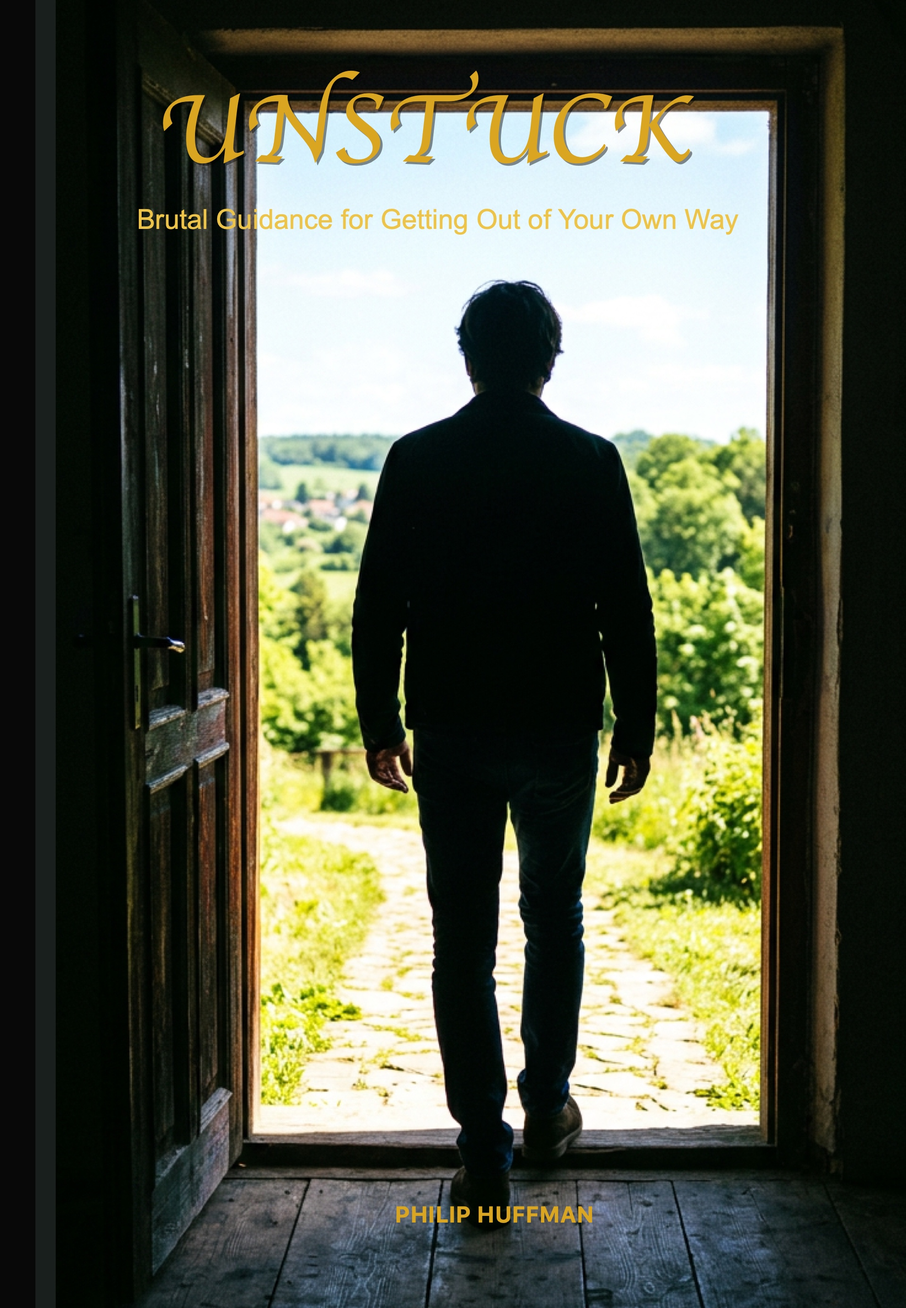
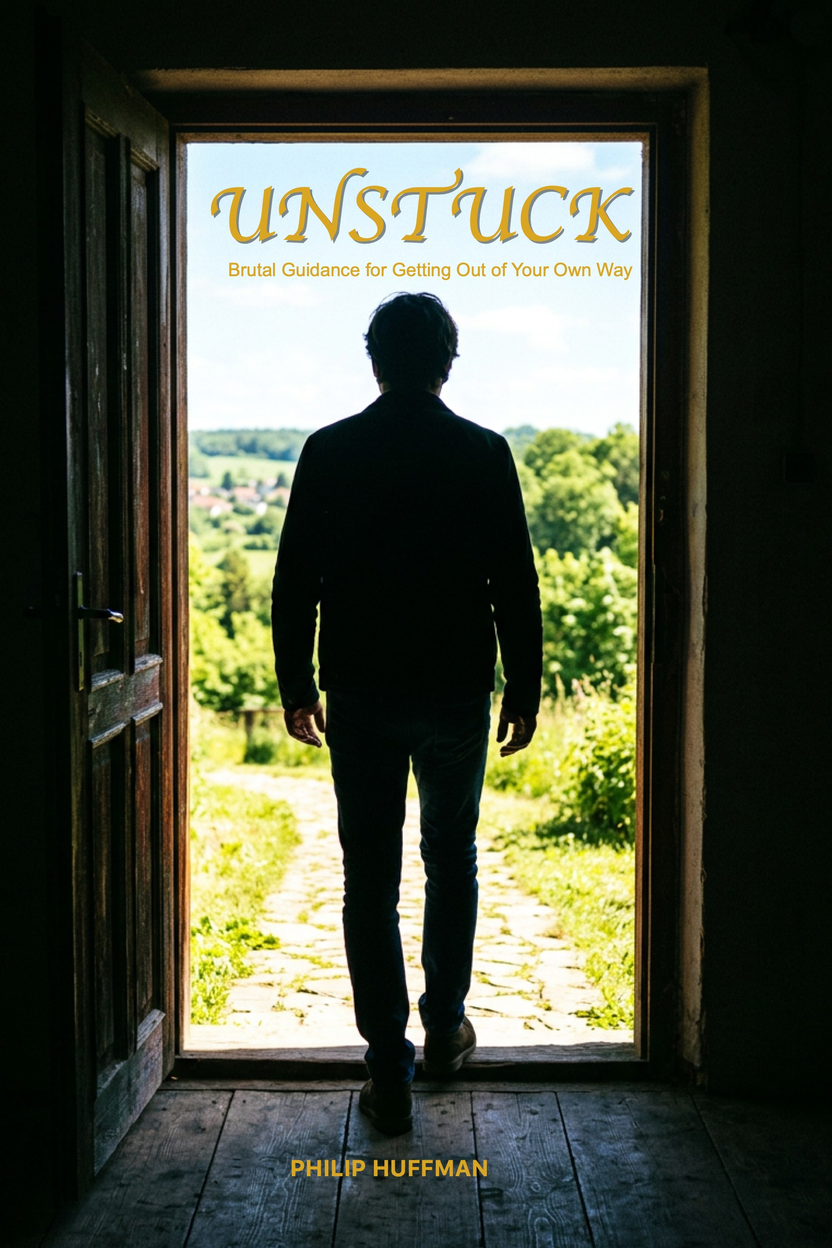
Use the redrawn Unstuck cover on the site

diff --git a/SESSION_STATE.md b/SESSION_STATE.md
@@ -12,6 +12,15 @@
 
 ---
 
+### Maintenance — October 25, 2026 — Unstuck has a new cover
+
+Philip, 2026-10-25: "I've changed the cover for 'Unstuck.' Freshen up the image on the site." The renders in `LaTeX/AllMyBooks/unstuck/cover/` were rebuilt at 06:27 (HC) and 06:35 (PB) that morning; the front art is the same door-and-figure plate, redrawn with the title inside the doorway.
+- **The site cover was replaced, not added.** `assets/img/books/unstuck.jpg` is now the PB front panel at 1762×2643 (exact 2:3), JPEG q90, 672 KB, down from the old 1919×2771 HC export at 1.2 MB. Frontmatter is unchanged: every surface reads this one path — the book page (`img.html`, 800 px webp), the `/books/` hub card, the home Library grid, the `all-my-books` catalog, and both `og:image` and the Book schema, which now report 1762×2643.
+- **The generator's own front-cover export was not used as-is.** `pb-unstuck.jpg` is 1800×2700 and carries a 75 px gold spine strip on its left edge; `hc-unstuck.jpg` carries a wider one. The card CSS is `object-fit: contain`, so either file would have shown the spine as a gold band down the cover. The published file is cropped from the 300 dpi wrap (`pb-unstuck.png`, 3728×2775) at the spine seam, measured at x=1966 on every sampled row, and trimmed 66 px top and bottom to the 2:3 trim — no gold, no letterbox.
+- **Verified:** `hugo --gc --minify` builds 515 pages; the rendered cover was checked on the book page, the hub, home, and the catalog in a browser, not by file-existence alone. `check-hero-paths.py` (coverage: 379 paths) and `check-content-frontmatter.py` (263 files) both OK. The article hero (`Unstuck-16x9.webp` / `Unstuck-4x5.webp`) is separate art — the Marcus bust — and was left alone; `image_alt` still describes the plate.
+
+---
+
 ### Maintenance — October 25, 2026 — Published the daily-sitrep report (automated)
 
 Auto-published by `com.huffmanwrites.daily-sitrep` after every gate passed.
